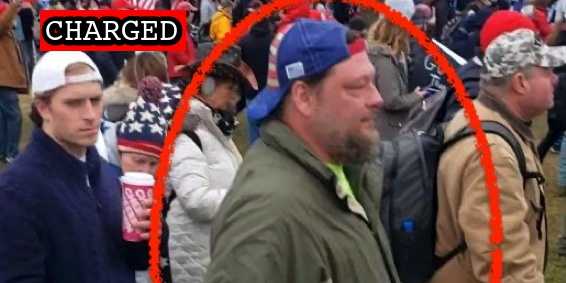
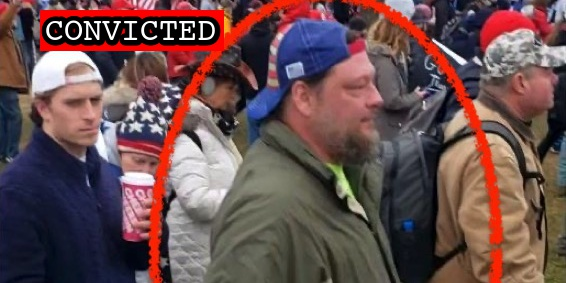
Latest schedule

Changed region(s): [[0.0901, 0.0283, 0.4205, 0.1979]]

diff --git a/docs/_suspects/john-gould.md b/docs/_suspects/john-gould.md
@@ -4,11 +4,11 @@ lastName: Gould
 hashtag:
 aka:
 residence: Georgia
-status: Charged
+status: Convicted
 date: 2022-03-11
 charged: 2022-03-11
 indicted:
-convicted:
+convicted: 2022-12-05
 acquitted:
 sentenced:
 dismissed:
@@ -17,7 +17,7 @@ plea_hearing: 2022-12-05
 trial_date:
 trial_type:
 jury_selection:
-sentencing:
+sentencing: 2023-04-28
 status_conference:
 age:
 occupation:
@@ -32,7 +32,7 @@ raid:
 perpwalk:
 quote:
 title: John Gould charged on March 11, 2022
-description: Click for latest case details. Suspects innocent until proven guilty.
+description: Convicted on December 5, 2022. Click for latest case details.
 author: seditiontrack
 layout: suspect
 published: true
@@ -41,7 +41,12 @@ caseName: USA v. GOULD
 judge: Rudolph Contreras
 videos:
 charges:
+- code: 40 USC § 5104(e)(2)(G)
+  title: Parading, demonstrating or picketing in a Capitol building
+  url: https://www.law.cornell.edu/uscode/text/40/5104
+  felony: false
 sentence:
 ---
 - [News Report](https://www.thedailybeast.com/alleged-capitol-rioter-john-gould-arrested-after-getting-outed-by-rioting-co-worker-jonathan-lauren)
 - [Statement of Facts](https://www.justice.gov/usao-dc/case-multi-defendant/file/1483526/download)
+- [Information](https://storage.courtlistener.com/recap/gov.uscourts.dcd.247423/gov.uscourts.dcd.247423.20.0.pdf)

diff --git a/docs/_suspects/rafael-rondon.md b/docs/_suspects/rafael-rondon.md
@@ -4,20 +4,20 @@ lastName: Rondon
 hashtag: AirHeadBoy
 aka:
 residence: New York
-status: Indicted
+status: Convicted
 date: 2021-09-01
 charged: 2021-09-01
 indicted: 2021-12-08
-convicted:
+convicted: 2022-12-06
 acquitted:
 sentenced:
 dismissed:
 deceased:
-plea_hearing: 2022-12-05
+plea_hearing: 2022-12-06
 trial_date:
 trial_type:
 jury_selection:
-sentencing:
+sentencing: 2023-03-13
 status_conference:
 age: 23
 occupation:
@@ -32,7 +32,7 @@ raid:
 perpwalk:
 quote: "... I’m not taking my car into the city which, the Capitol building I’m about to break into."
 title: Rafael Rondon charged on September 1, 2021
-description: Click for latest case details. Suspects innocent until proven guilty.
+description: Convicted on December 6, 2022. Click for latest case details.
 author: seditiontrack
 layout: suspect
 published: true
@@ -41,6 +41,10 @@ caseName: USA v. RONDON
 judge: Thomas F. Hogan
 videos:
 charges:
+- code: 18 USC § 1512(c)(2),2
+  title: Obstruction of an Official Proceeding (Aiding and Abetting)
+  url: https://www.law.cornell.edu/uscode/text/18/1512
+  felony: true
 sentence:
 ---
 - [News Report](https://www.wwnytv.com/2021/10/01/watertown-man-his-mother-facing-federal-charges-jan-6th-capitol-riot/)

diff --git a/docs/_suspects/shelly-varney.md b/docs/_suspects/shelly-varney.md
@@ -17,7 +17,7 @@ plea_hearing:
 trial_date:
 trial_type:
 jury_selection:
-sentencing:
+sentencing: 2023-03-27
 status_conference:
 age:
 occupation:
@@ -32,17 +32,18 @@ raid:
 perpwalk:
 quote:
 title: Shelly Varney charged on November 15th, 2022
-description: Click for latest case details. Suspects innocent until proven guilty.
+description: Convicted on December 1, 2022. Click for latest case details.
 author: seditiontrack
 layout: suspect
 published: true
 caseNumber: 22-cr-0372
-caseName:
-judge:
+caseName: USA v. Varney
+judge: John D. Bates
 videos:
 charges:
 sentence:
 ---
+
 - [Information](https://www.justice.gov/usao-dc/case-multi-defendant/file/1555286/download)
 - [Plea Agreement](https://www.justice.gov/usao-dc/case-multi-defendant/file/1555291/download)
 - [Statement of Offense](https://www.justice.gov/usao-dc/case-multi-defendant/file/1555296/download)

diff --git a/docs/_suspects/bernard-sirr.md b/docs/_suspects/bernard-sirr.md
@@ -14,11 +14,11 @@ sentenced:
 dismissed:
 deceased:
 plea_hearing:
-trial_date:
-trial_type:
-jury_selection:
+trial_date: 2023-06-05
+trial_type: Jury Trial
+jury_selection: 2023-06-05
 sentencing:
-status_conference: 2022-12-02
+status_conference: 2023-01-27
 age: 47
 occupation:
 affiliations:

diff --git a/docs/_suspects/luke-lints.md b/docs/_suspects/luke-lints.md
@@ -14,11 +14,11 @@ sentenced:
 dismissed:
 deceased:
 plea_hearing:
-trial_date:
-trial_type:
-jury_selection:
+trial_date: 2023-06-05
+trial_type: Jury Trial
+jury_selection: 2023-06-05
 sentencing:
-status_conference: 2022-12-02
+status_conference: 2023-01-27
 age: 27
 occupation:
 affiliations:

diff --git a/docs/_suspects/sandra-weyer.md b/docs/_suspects/sandra-weyer.md
@@ -14,11 +14,11 @@ sentenced:
 dismissed:
 deceased:
 plea_hearing:
-trial_date:
-trial_type:
-jury_selection:
+trial_date: 2023-06-05
+trial_type: Jury Trial
+jury_selection: 2023-06-05
 sentencing:
-status_conference: 2022-12-05
+status_conference:
 age:
 occupation:
 affiliations:

diff --git a/docs/_suspects/adam-miller.md b/docs/_suspects/adam-miller.md
@@ -13,9 +13,9 @@ acquitted:
 sentenced:
 dismissed:
 deceased:
-plea_hearing:
-trial_date: 2023-02-16
-trial_type: Bench Trial
+plea_hearing: 2022-12-07
+trial_date:
+trial_type:
 jury_selection:
 sentencing:
 status_conference:

diff --git a/docs/_suspects/devin-steiner.md b/docs/_suspects/devin-steiner.md
@@ -13,9 +13,9 @@ acquitted:
 sentenced:
 dismissed:
 deceased:
-plea_hearing:
-trial_date: 2023-02-16
-trial_type: Bench Trial
+plea_hearing: 2022-12-07
+trial_date:
+trial_type:
 jury_selection:
 sentencing:
 status_conference:

diff --git a/docs/_suspects/jack-whitton.md b/docs/_suspects/jack-whitton.md
@@ -18,7 +18,7 @@ trial_date:
 trial_type:
 jury_selection:
 sentencing: 2023-03-06
-status_conference: 2022-12-05
+status_conference:
 age: 30
 occupation: Fencing Contractor, CrossFit Instructor
 affiliations:

diff --git a/docs/_suspects/matthew-dasilva.md b/docs/_suspects/matthew-dasilva.md
@@ -14,8 +14,8 @@ sentenced:
 dismissed:
 deceased:
 plea_hearing:
-trial_date:
-trial_type:
+trial_date: 2023-07-17
+trial_type: Bench Trial
 jury_selection:
 sentencing:
 status_conference: 2022-12-06

diff --git a/docs/_suspects/riley-williams.md b/docs/_suspects/riley-williams.md
@@ -18,7 +18,7 @@ trial_date: 2022-11-07
 trial_type: Jury Trial
 jury_selection:
 sentencing: 2023-02-22
-status_conference: 2022-12-05
+status_conference:
 age: 22
 occupation:
 affiliations:

diff --git a/docs/_suspects/john-strand.md b/docs/_suspects/john-strand.md
@@ -17,7 +17,7 @@ plea_hearing:
 trial_date: 2022-09-19
 trial_type: Jury Trial
 jury_selection:
-sentencing: 2023-01-12
+sentencing: 2023-01-20
 status_conference:
 age: 37
 occupation: Model
